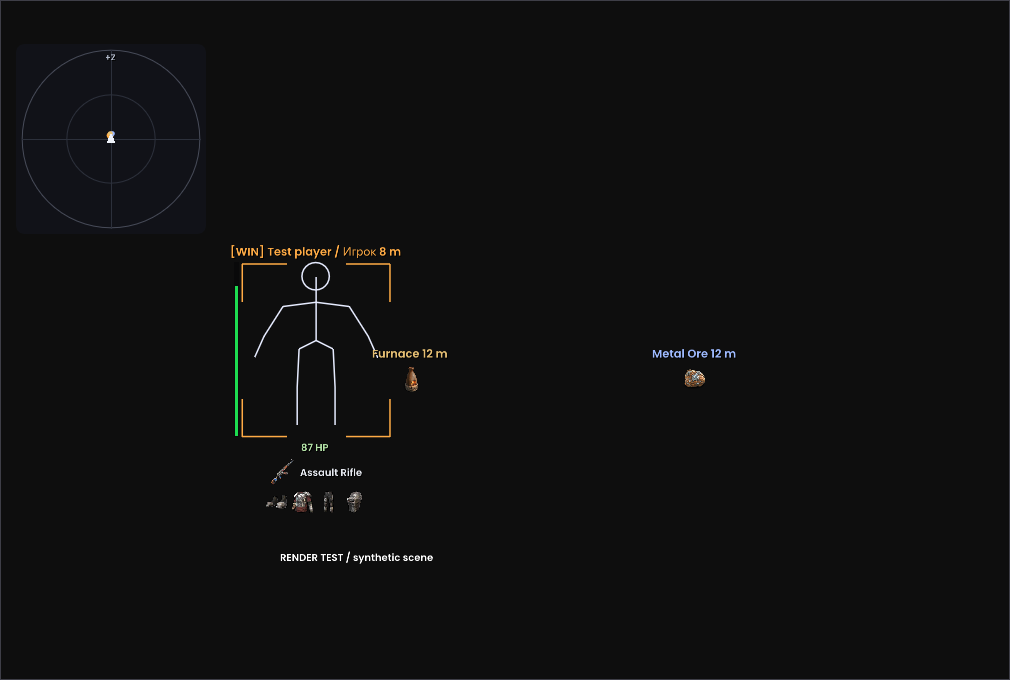
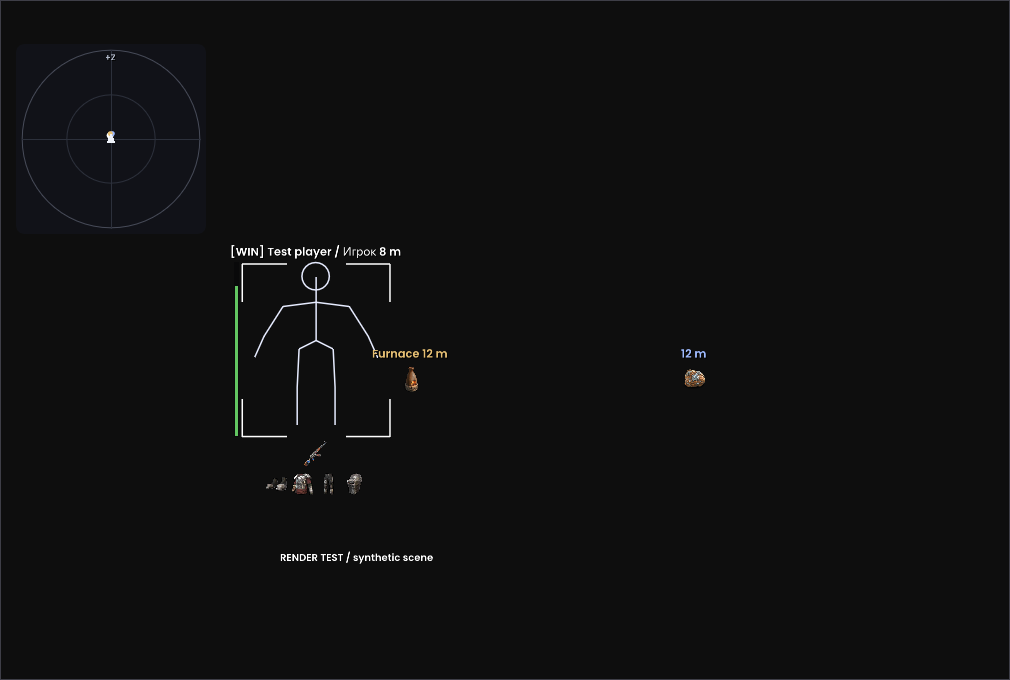
Document 0.2.13 visual controls and aim ownership fixes

diff --git a/README.md b/README.md
@@ -2,37 +2,39 @@
 
 Лоадер для ПК и Android external под Oxide 1.13.11924 x86_64 в MSI App Player/BlueStacks.
 
-**[Скачать OxideLoader.exe 0.2.12](https://github.com/asiriswin-bit/WINALIEN-Oxide-External/releases/download/oxide-11924-v0.2.12/OxideLoader.exe)** · [Релиз](https://github.com/asiriswin-bit/WINALIEN-Oxide-External/releases/tag/oxide-11924-v0.2.12)
+**[Скачать OxideLoader.exe 0.2.13](https://github.com/asiriswin-bit/WINALIEN-Oxide-External/releases/download/oxide-11924-v0.2.13/OxideLoader.exe)** · [Релиз](https://github.com/asiriswin-bit/WINALIEN-Oxide-External/releases/tag/oxide-11924-v0.2.13)
 
-## Изменения 0.2.12
+## Изменения 0.2.13
 
-- Auto Heal: пороги HP, выбор бинтов/аптечек, приоритет лекарства, калибровка слотов и Use. Учитывает откат предмета; прекращает неудачные повторные клики.
-- Friends / Team: признаки друга и команды, настраиваемый зелёный ESP, исключение из Aim и Auto Melee. Отдельная экспериментальная блокировка дружественного огня.
-- Auto Melee: ближайший противник, Players/NPC, дальность, FOV до 360°. Поворот камеры и обычный удар инструментом при совпадении игрового ray с целью в пределах досягаемости оружия.
-- Visible Check (crosshair): подтверждение цели под прицелом. Видимость остальных игроков неизвестна; это не полная проверка всех препятствий.
-- Настройки сохраняются в CFG. Auto Heal, Auto Melee и блокировка дружественного огня по умолчанию выключены. При лечении AutoFarm и Aim приостанавливаются.
+- ESP: отдельные цвета имени, бокса, заливки, расстояния, линий, оружия и экипировки; толщина бокса и HP-бара. Имя и бокс белые по умолчанию, оружие — иконкой, HP-текст выключен.
+- Линии мира отдельно для каждой категории: включение, начало, цвет и толщина. Переключатель линий игроков больше не включает линии ресурсов.
+- Резервное чтение загруженной экипировки модели, вертикальное расположение и цвет иконок. Неподтверждённые значения HP других игроков скрыты.
+- AutoFarm: чтение крестиков дерева/руды и движение к текущей отметке, сохранение и восстановление существующих значений движения. При отсутствии отметки используется начальная точка удара. Причина отказа инструмента отображается отдельно.
+- Исправлен сброс Aim бездействующим AutoFarm. Отдельная активация Silent по умолчанию Always; режим обычного Aim сохраняется независимо.
+- Auto Melee: выбор головы, шеи, груди или таза. Fast Reload: клиентский множитель до 50×.
 
-![Auto Heal — синтетический рендер меню](autoheal.png)
+**Надёжный Silent ещё не готов:** игра перезаписывает направление, а внешний цикл не синхронизирован с выстрелом. Успешная запись в память не означает попадания; новый статус это различает.
 
-![Auto Melee и друзья — синтетический рендер меню](melee.png)
+![Настройки ESP — синтетический рендер](menu.png)
 
-## Запуск новых функций
+![AutoFarm — синтетический рендер меню](autofarm.png)
 
-1. Остановить external, закрыть старый лоадер, заменить EXE. Кнопка «Скачать файлы» обновляет runtime, не сам EXE.
-2. Скачать runtime `oxide-11924-v0.2.12`, затем «Старт external». **Протокол 7 — EXE и runtime обновляются вместе.**
-3. Автохил: положить лекарство в hotbar, выбрать его, чтобы появилась Use. Exploits → Auto Heal → Calibrate hotbar + use → отметить центры первого/последнего слота и Use. Задать HP, включить, закрыть меню. После изменения разрешения или кнопок повторить калибровку.
-4. Auto Melee: Rage → Auto Melee → взять кирку/топор/другое ближнее оружие → настроить дальность/FOV и включить → закрыть меню.
-5. Цвет друзей: ESP → Player Core → Friend / Team Color. Старый CFG сохраняет прежнее значение переключателя. Protect friends / team исключает друзей из Aim. Block friendly fire экспериментальный и не гарантирует остановку каждого выстрела.
+## Обновление и запуск
 
-Штатные откаты из данных игры: бинт 3 секунды, аптечка 6 секунд. Автохил не сокращает серверные задержки.
+1. Остановить external, закрыть старый лоадер, заменить EXE. «Скачать файлы» обновляет runtime, не сам EXE.
+2. Скачать runtime `oxide-11924-v0.2.13`, затем «Старт external». **Протокол 8: EXE и runtime обновляются вместе.**
+3. ESP → Player Core → **Clean ESP preset** сбрасывает только оформление. Шестерёнки открывают настройки элементов и категорий. Старые CFG автоматически отключают HP-текст, подписи оружия, category/net ID и линии мира.
+4. AutoFarm: взять подходящий топор/кирку, выбрать ресурсы и включить функцию, закрыть меню. Если движения нет, статус показывает ожидание инструмента, цели, управления или свежей сцены.
+5. Auto Melee: Rage → Auto Melee → инструмент ближнего боя → кость, дальность/FOV → включить и закрыть меню.
+6. Auto Heal: лекарства в hotbar; Exploits → Calibrate hotbar + use → центры первого/последнего слота и Use. После изменения разрешения повторить калибровку. Учитываются игровые откаты предмета.
 
-Меню скрывается крестиком/Escape, открывается watermark/Insert. F6 переключает ESP. Именованные CFG: Config → Create / Save / Load. AutoFarm, Aim/Silent и визуалы предыдущей сборки сохранены.
+Меню скрывается крестиком/Escape, открывается watermark/Insert. F6 переключает ESP. Именованные CFG: Config → Create / Save / Load. Friends / Team исключает друзей из Aim и Auto Melee; блокировка дружественного огня экспериментальная.
 
 ## Проверки и ограничения
 
-15/15 наборов CTest; smoke 100%/150% с 40 проверками меню, включая калибровку. Скриншоты показывают синтетический рендер. **Новые функции ещё не проверены в игре: эмулятор не подключён.**
+15/15 наборов CTest; smoke интерфейса при 100% и 150%. Скриншоты показывают синтетический рендер. **Изменения 0.2.13 ещё не проверены в игре: эмулятор не подключён.**
 
-**Автостройка кибитки, восстановление разрушенных стен и полный wall-check всех игроков не реализованы.** Silent и блокировка дружественного огня зависят от внешнего опроса и могут проигрывать игровому обновлению. Auto Melee использует обычную атаку, AutoFarm — прямое движение без обхода стен. Обход античита не заявляется.
+Silent Farm/Melee без анимаций, skip animations, свободная камера, автостройка и полный wall-check не реализованы. Visible Check подтверждает только цель под игровым прицелом. Auto Melee использует обычную атаку, AutoFarm движется прямо и не строит маршрут в обход стен. Множитель Reload не гарантирует мгновенную перезарядку на сервере. Обход античита не заявляется.
 
 ## Компоненты
 
